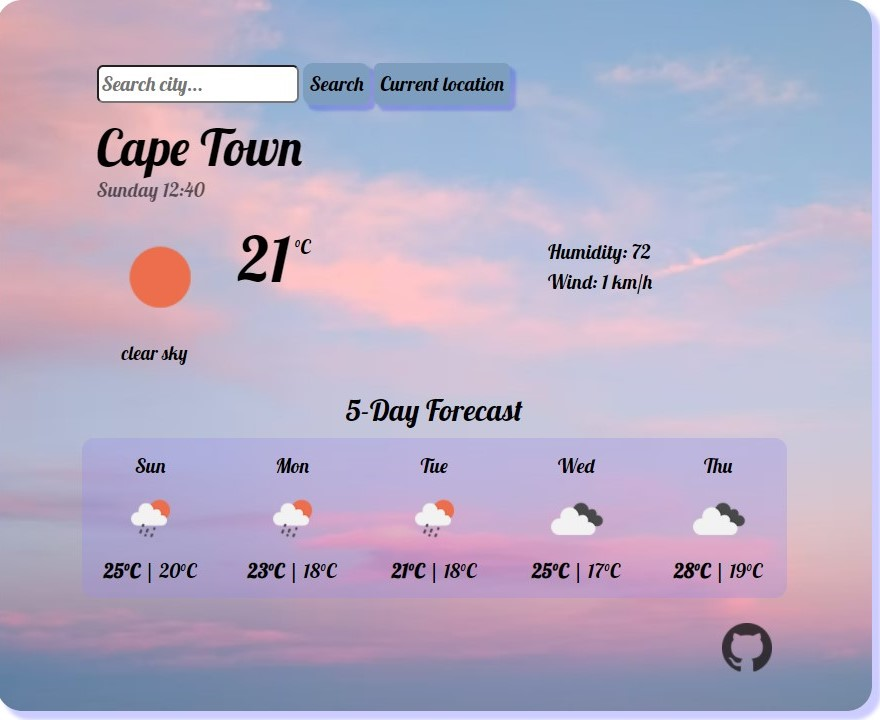
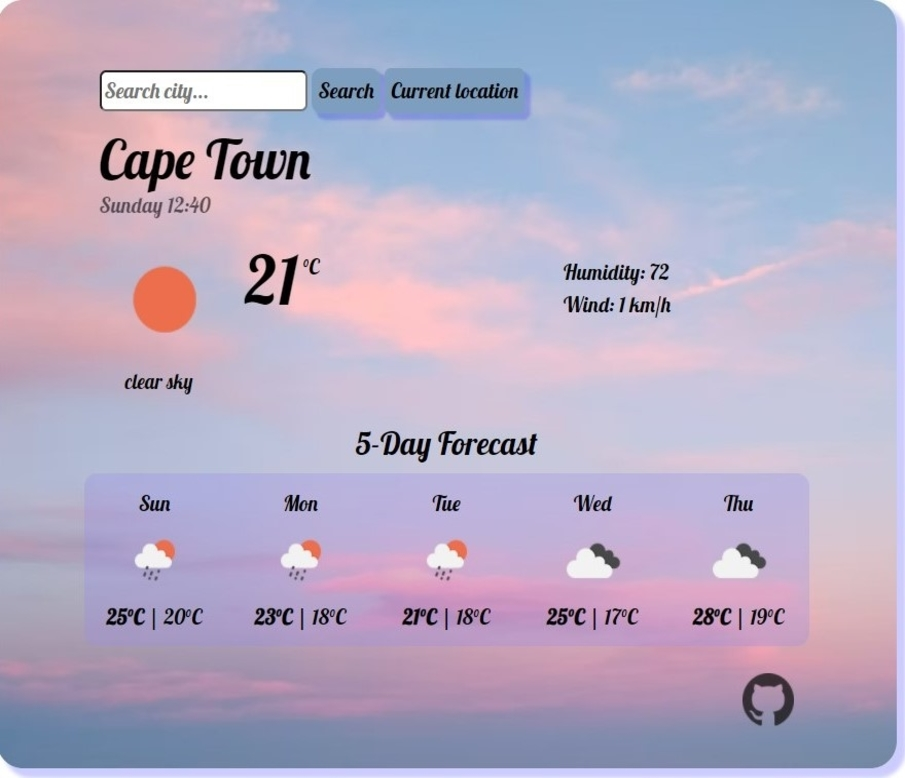
Adjusted project image size

diff --git a/index.html b/index.html
@@ -4,6 +4,7 @@
     <meta charset="UTF-8" />
     <meta http-equiv="X-UA-Compatible" content="IE=edge" />
     <meta name="viewport" content="width=device-width, initial-scale=1.0" />
+    <meta name="description" content="Sarah Francis Front-End Developer Portfolio">
     <title> 💁🏻Sarah Francis: Front-End Developer</title>
     <link href="src/styles.css" rel="stylesheet" type="text/css" />
     <link
@@ -74,7 +75,7 @@
         <div class="container-fluid">
           <div class="row">
             <div class="col-sm-3">
-                <img src="/images/portfolio.jpg" class="img-fluid float-start portfolio-image">
+                <img src="/images/portfolio.jpg" class="img-fluid float-start portfolio-image" alt="Sarah Francis Profile">
             </div>
             <div class="col-sm-9 pt-4 fs-5">
               <h4 class="fs-3 text-decoration-underline">Front-End Developer from South Africa, based in Shanghai</h4>
@@ -160,13 +161,13 @@
                         <a role="button" class="mt-3 me-2 p-3 btn btn-primary d-sm-block" href="https://zen-poincare-8ce195.netlify.app">See It Here</a>
                     </div> 
                     <div class="col-sm-6">
-                        <img src="images/weather-app.jpg" class="border border-dark img-fluid">
+                        <img src="images/weather-app.jpg" class="border border-dark img-fluid" alt="My Weather App">
                     </div>
                 </div>
                 <div class="mt-5 container-fluid">
                      <div class="row">
                     <div class=" mt-3 col-sm-6">
-                        <img src="images/surfboard.jpg" class="border border-dark img-fluid">
+                        <img src="images/surfboard.jpg" class="border border-dark img-fluid" alt="My Surfboard Webpage">
                     </div> 
                           <div class="col-sm-6 mt-4">
                         <h4 class="pb-3 text-center text-decoration-underline"> Surfboard Webpage</h4>
@@ -204,7 +205,7 @@
                         <a role="button" class="mt-3 me-2 p-3 btn btn-primary d-sm-block" href="#">See It Here</a>
                     </div> 
                     <div class="col-sm-6">
-                        <img src="images/portfolio-project.jpg" class="border border-dark img-fluid">
+                        <img src="images/portfolio-project.jpg" class="border border-dark img-fluid" alt="My Portfolio Website">
                     </div>
                 </div>
             </div>

diff --git a/src/styles.css b/src/styles.css
@@ -153,7 +153,7 @@ footer p {
   padding: 80px;
 }
 
-@media (max-width: 1100px) {
+@media (max-width: 768px) {
   .hero h1 {
     font-size: 50px;
   }
@@ -180,5 +180,13 @@ footer p {
     text-align: center;
   }
   .project-section img {
+    display: flex;
+    padding: 30px;
+    margin: 30px;
+    text-align: center !important;
+  }
+  .col-sm-6 {
+    width: 100%;
+    margin-top: 30px;
   }
 }
